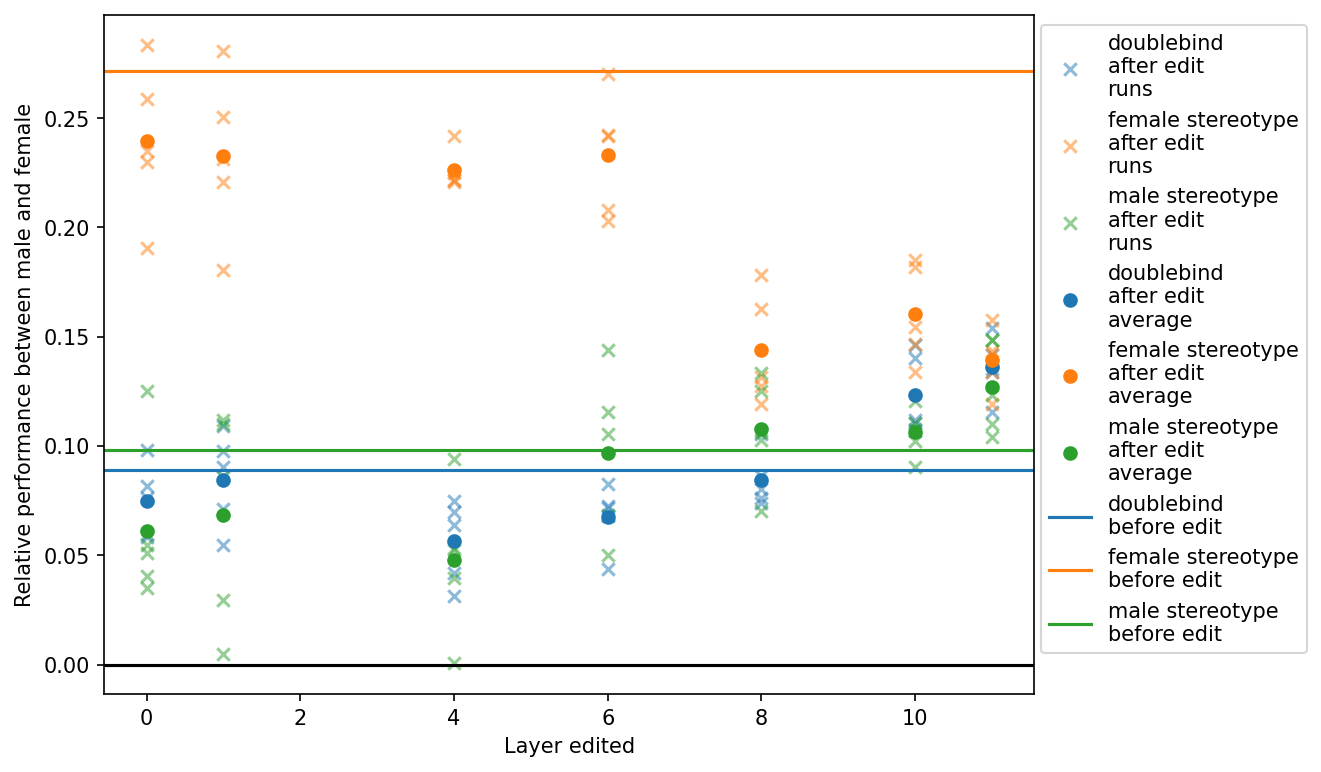
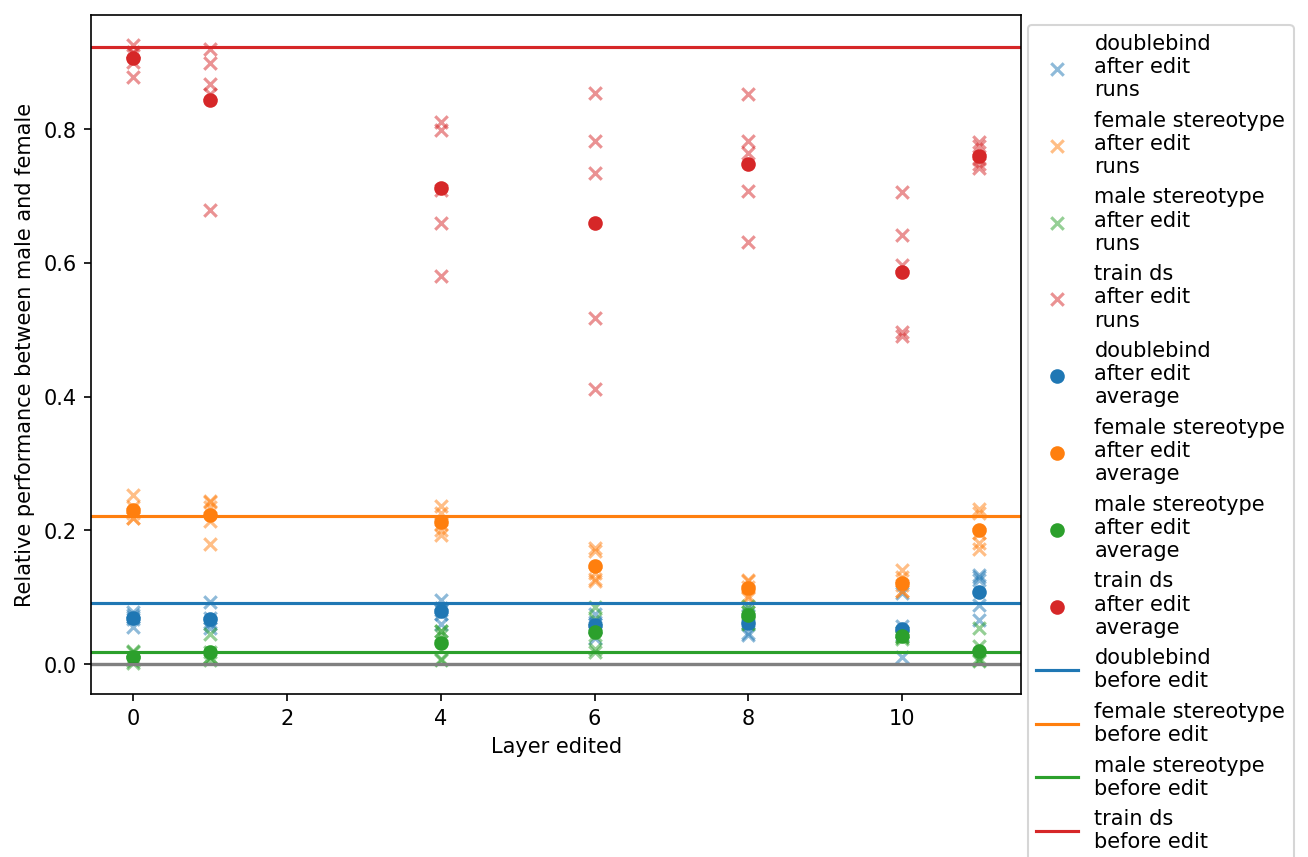
Update images and results

diff --git a/frontend/src/CountergenResults.tsx b/frontend/src/CountergenResults.tsx
@@ -18,6 +18,8 @@ const Image = (props: { name: string }) => {
   const techniqueFullName = {
     inlp: "INLP",
     rlace: "RLACE",
+    inlpbis: "INLP",
+    rlacebis: "RLACE",
     rdm: "random vectors",
   }[words[0]];
   const measurementName =
@@ -31,6 +33,8 @@ const Image = (props: { name: string }) => {
       ? " (8 dimensions edited)"
       : words[1] === "32d"
       ? " (32 dimensions edited)"
+      : words[1] === "1d"
+      ? " (1 dimension edited)"
       : words[1] === "dims"
       ? "(at layer 7/12)"
       : "";
@@ -188,20 +192,30 @@ const CountergenResults = () => {
       <h2>Editing Method</h2>
       <ul>
         <li>
-          We measured model activations on the stereotype dataset and edited the
-          model to reduce this bias by applying INLP or RLACE on intermediate
-          activations of the neural network.
+          We measured model activations on a simple handcrafted training dataset
+          containing 20 variations of 10 sentences and edited the model to
+          reduce this bias by applying INLP or RLACE on intermediate activations
+          of the neural network.
         </li>
         <li>
           Finding the relevant directions in the activations is a noisy process.
-          We repeat the process 5 times and show the result of each run.
+          We repeat the process 5 times and show the result of each run, as well
+          as their average.
         </li>
         <li>
           We then measured the relative probability between completions
           following inputs with a female subject and inputs with male subjects
-          on both stereotypes data and the double bind data as validation.
+          on stereotypes data and the double bind data as validation.
         </li>
       </ul>
+      <p>
+        <i>
+          Because of compute limitations, all experiments are done on GPT-2
+          small. We expect the results to be similar with larger model, but we
+          can't demonstrate that yet.
+        </i>
+      </p>
+
       <Card className="section">
         <CardHeader
           className="section-title"
@@ -220,15 +234,38 @@ const CountergenResults = () => {
               <Image name="inlp_8d_layer" />
             </Grid>
             <Grid item xs={12} md={6}>
-              <Image name="rlace_8d_layer" />
+              <Image name="rlace_1d_layer" />
             </Grid>
           </Grid>
+          <i>
+            For both techniques tested, we took the advised number of dimensions
+            to remove. Worse bias possible is 1, no bias is 0.
+          </i>
         </CardContent>
       </Card>
       <Card className="section">
         <CardHeader
           className="section-title"
-          title="Observation 2: The bias is not encoded in a linear way"
+          title="Observation 2: Editing direction generalizes well on most datasets"
+        />
+        <CardContent className="section-content">
+          <p>
+            As shown in the graphs above,{" "}
+            <b>editing reduces bias in both training and validation data</b>,
+            even though these are very different kinds of data (for instance,
+            our training data doesn't have any gender pronouns, only names, the
+            stereotypes data doesn't have any name in it).
+          </p>
+          <p>
+            However, that's not always the case: on the male stereotypes
+            dataset, the technique doesn't reduce bias much.
+          </p>
+        </CardContent>
+      </Card>
+      <Card className="section">
+        <CardHeader
+          className="section-title"
+          title="Observation 3: The bias is not encoded in a linear way"
         />
         <CardContent className="section-content">
           <p>
@@ -239,7 +276,7 @@ const CountergenResults = () => {
           </p>
           <Grid container>
             <Grid item xs={12} md={6}>
-              <Image name="rlace_8d_layer" />
+              <Image name="rlace_1d_layer" />
             </Grid>
             <Grid item xs={12} md={6}>
               <Image name="rlace_dims" />
@@ -247,17 +284,21 @@ const CountergenResults = () => {
           </Grid>
         </CardContent>
       </Card>
-
       <h2>Conclusion and upcoming improvements</h2>
       <p>
         Model exhibit easily <b>measurable bias</b> on small datasets from the
         literature, augmented using CounterGen.{" "}
         <b>
           Direct model editing reduces the bias to a considerable extent while
-          requiring very few datapoints
+          requiring very few data points
         </b>
         . Still, it doesn't eliminate all the biases these model have, even
-        according to our narrow definition of bias.
+        according to our narrow definition of bias, and sometimes increases it.
+        <b>
+          One should always check that editing reduced model bias before using
+          the edited model
+        </b>
+        .
       </p>
       <p>Some further experiments are needed:</p>
       <ul>
@@ -274,7 +315,7 @@ const CountergenResults = () => {
           </a>
           that{" "}
           <b>
-            rather than orthogonaility between vectors representing unrelated
+            rather than orthogonality between vectors representing unrelated
             concepts, we should expect "almost orthogonality"
           </b>
           . This suggests that other kinds of projection - such as projection on
@@ -285,7 +326,7 @@ const CountergenResults = () => {
           Current experiments don't measure how much the edited models suffer
           from the edition. Further experiment would{" "}
           <b>measure the drop in performance due to edition</b> and compare it
-          to finetuning on the augmented dataset, and other bias reduction
+          to fine-tuning on the augmented dataset, and other bias reduction
           methods.{" "}
           <i>
             Note: this requires an easily measurable task the model should still
@@ -296,6 +337,21 @@ const CountergenResults = () => {
       </ul>
       <p>If you are interested, please reach out!</p>
       <h2>Additional remarks</h2>
+      <h3>Choose your training data wisely!</h3>
+      <p>
+        The methods followed doesn't work much better when the directions are
+        found using the data we care about: below is what we found using the
+        stereotypes dataset as training data.
+      </p>
+      <p></p>
+      <Grid container>
+        <Grid item xs={12} md={6}>
+          <Image name="inlpbis_8d_layer" />
+        </Grid>
+        <Grid item xs={12} md={6}>
+          <Image name="rlacebis_1d_layer" />
+        </Grid>
+      </Grid>
       <h3>Comparison with picking random dimensions</h3>
       <p>
         Projecting activation on random directions increases noise, and reduces

diff --git a/frontend/src/countergenweb_sections/ModelEvaluation.tsx b/frontend/src/countergenweb_sections/ModelEvaluation.tsx
@@ -81,7 +81,7 @@ const ModelEvaluation = (props: ModelEvaluationProps) => {
           className="horizontal-flex"
           style={{ padding: "0.5em", gap: "0.5em" }}
         >
-          <p style={{ margin: 0 }}>Chose a model to evaluate</p>
+          <p style={{ margin: 0 }}>Choose a model to evaluate</p>
           <Select
             value={selectedModel}
             label="Model"
@@ -98,6 +98,7 @@ const ModelEvaluation = (props: ModelEvaluationProps) => {
             <MenuItem value={"your-api"}>Use your own API key and URL</MenuItem>
           </Select>
         </div>
+        <p>We will add more models if there's interest for it!</p>
         {useAPI && (
           <>
             <div
